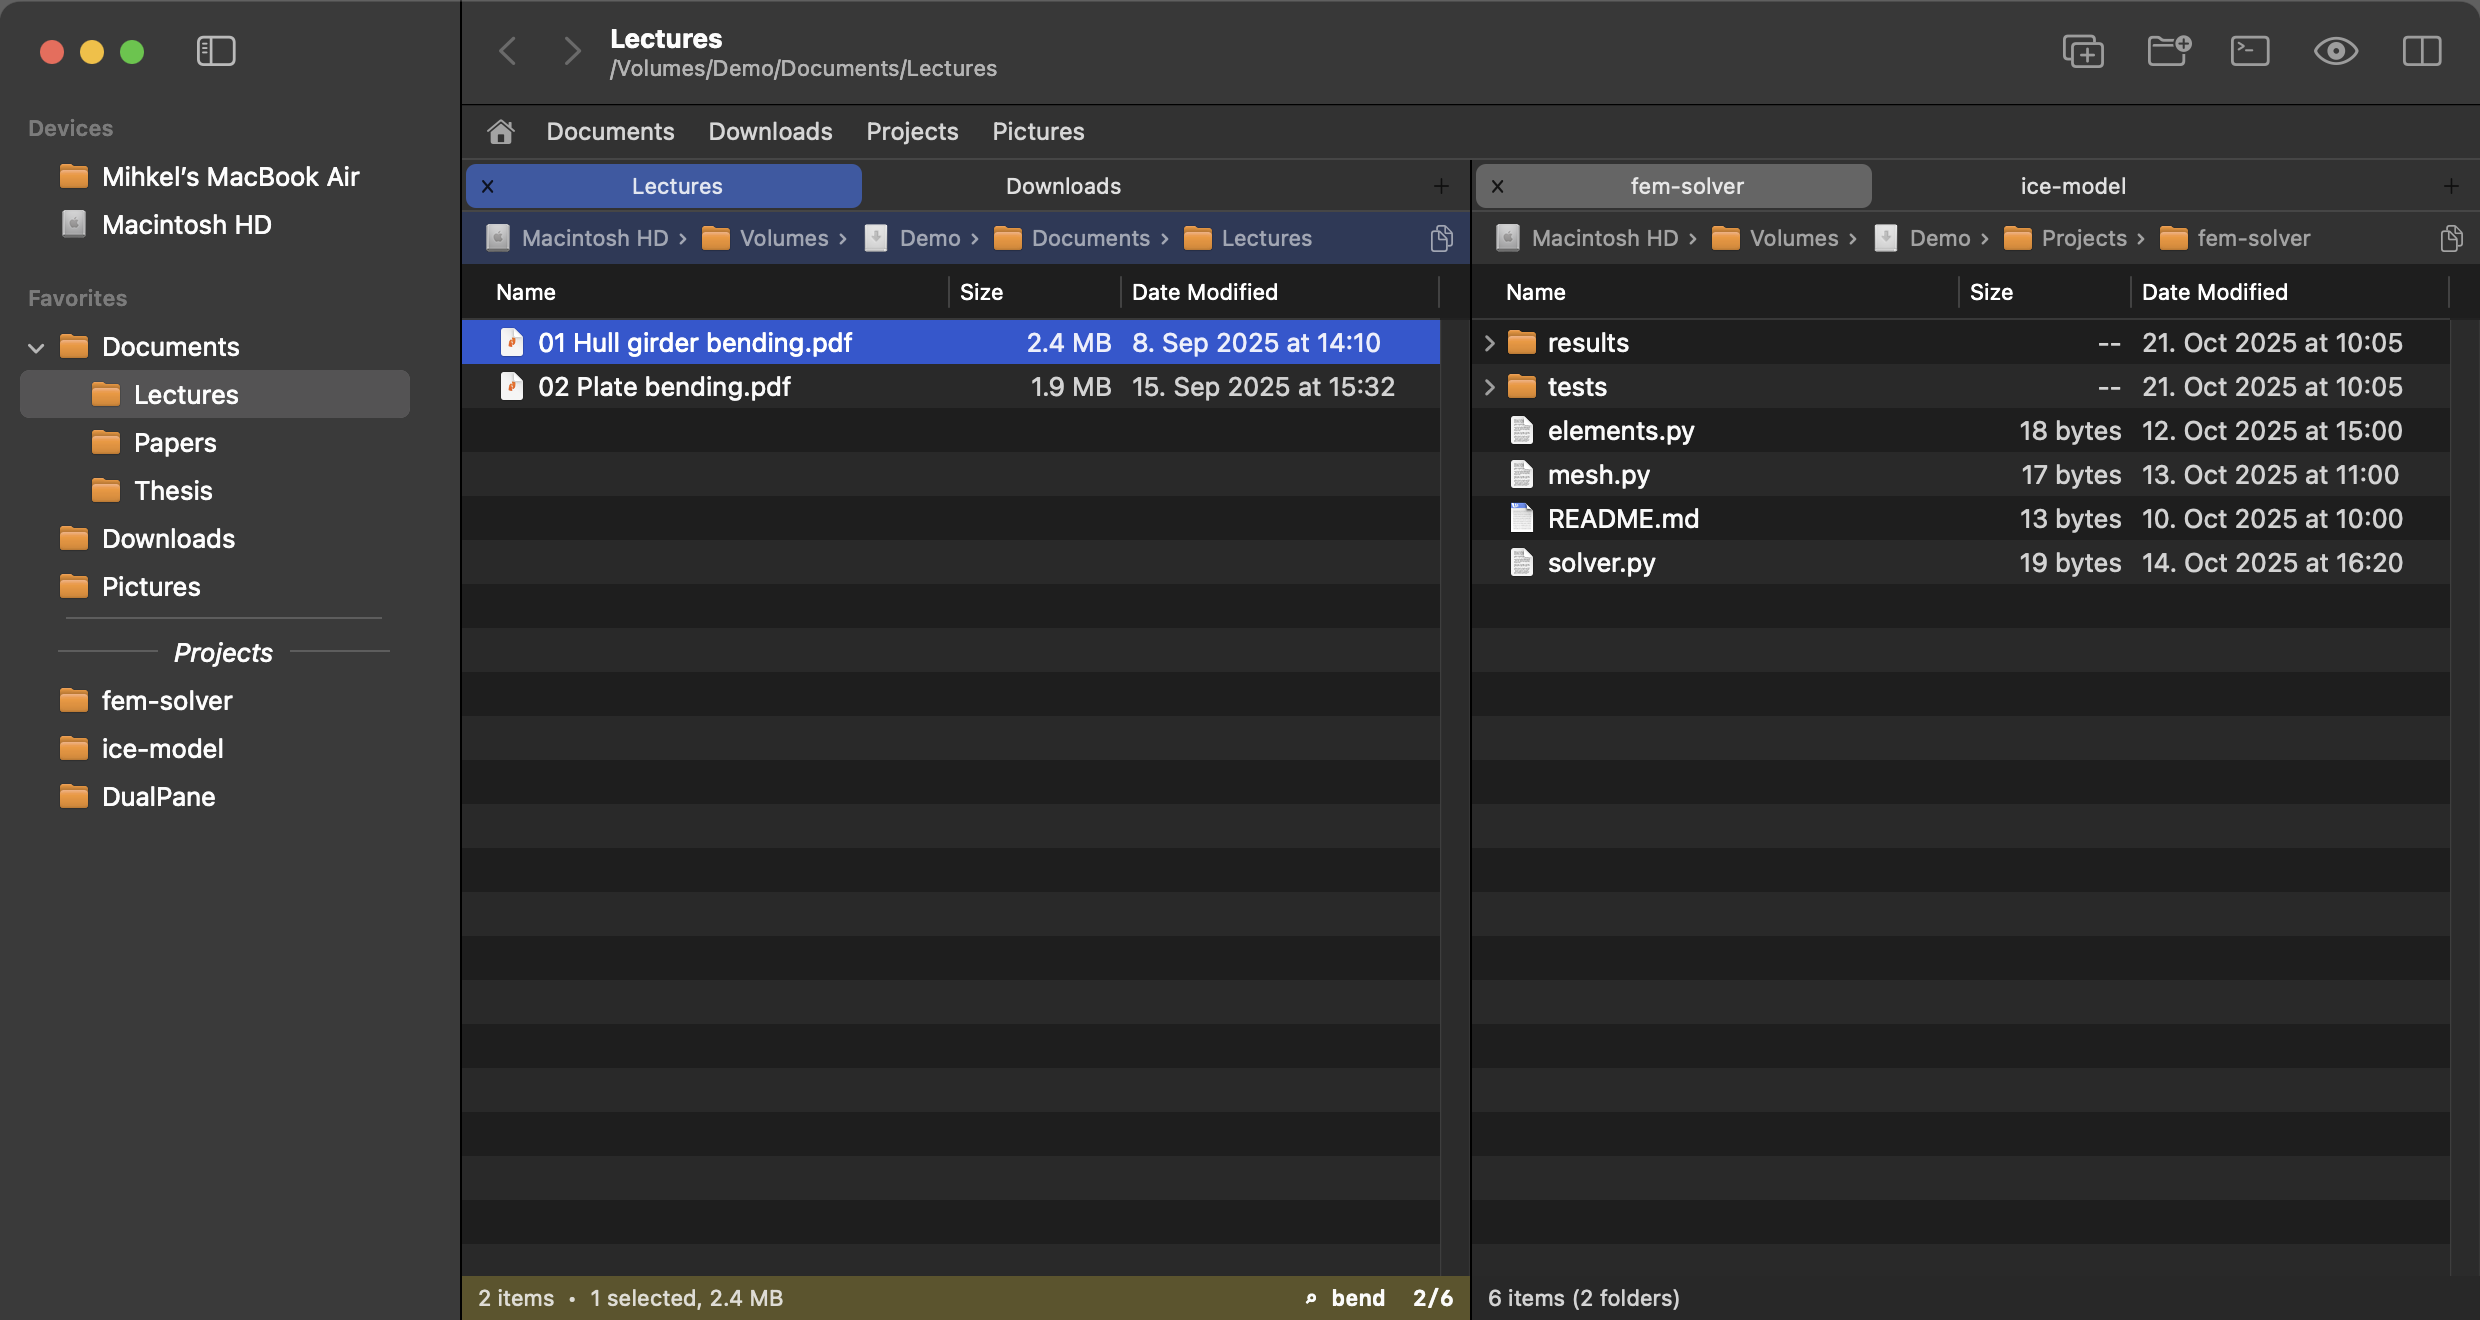
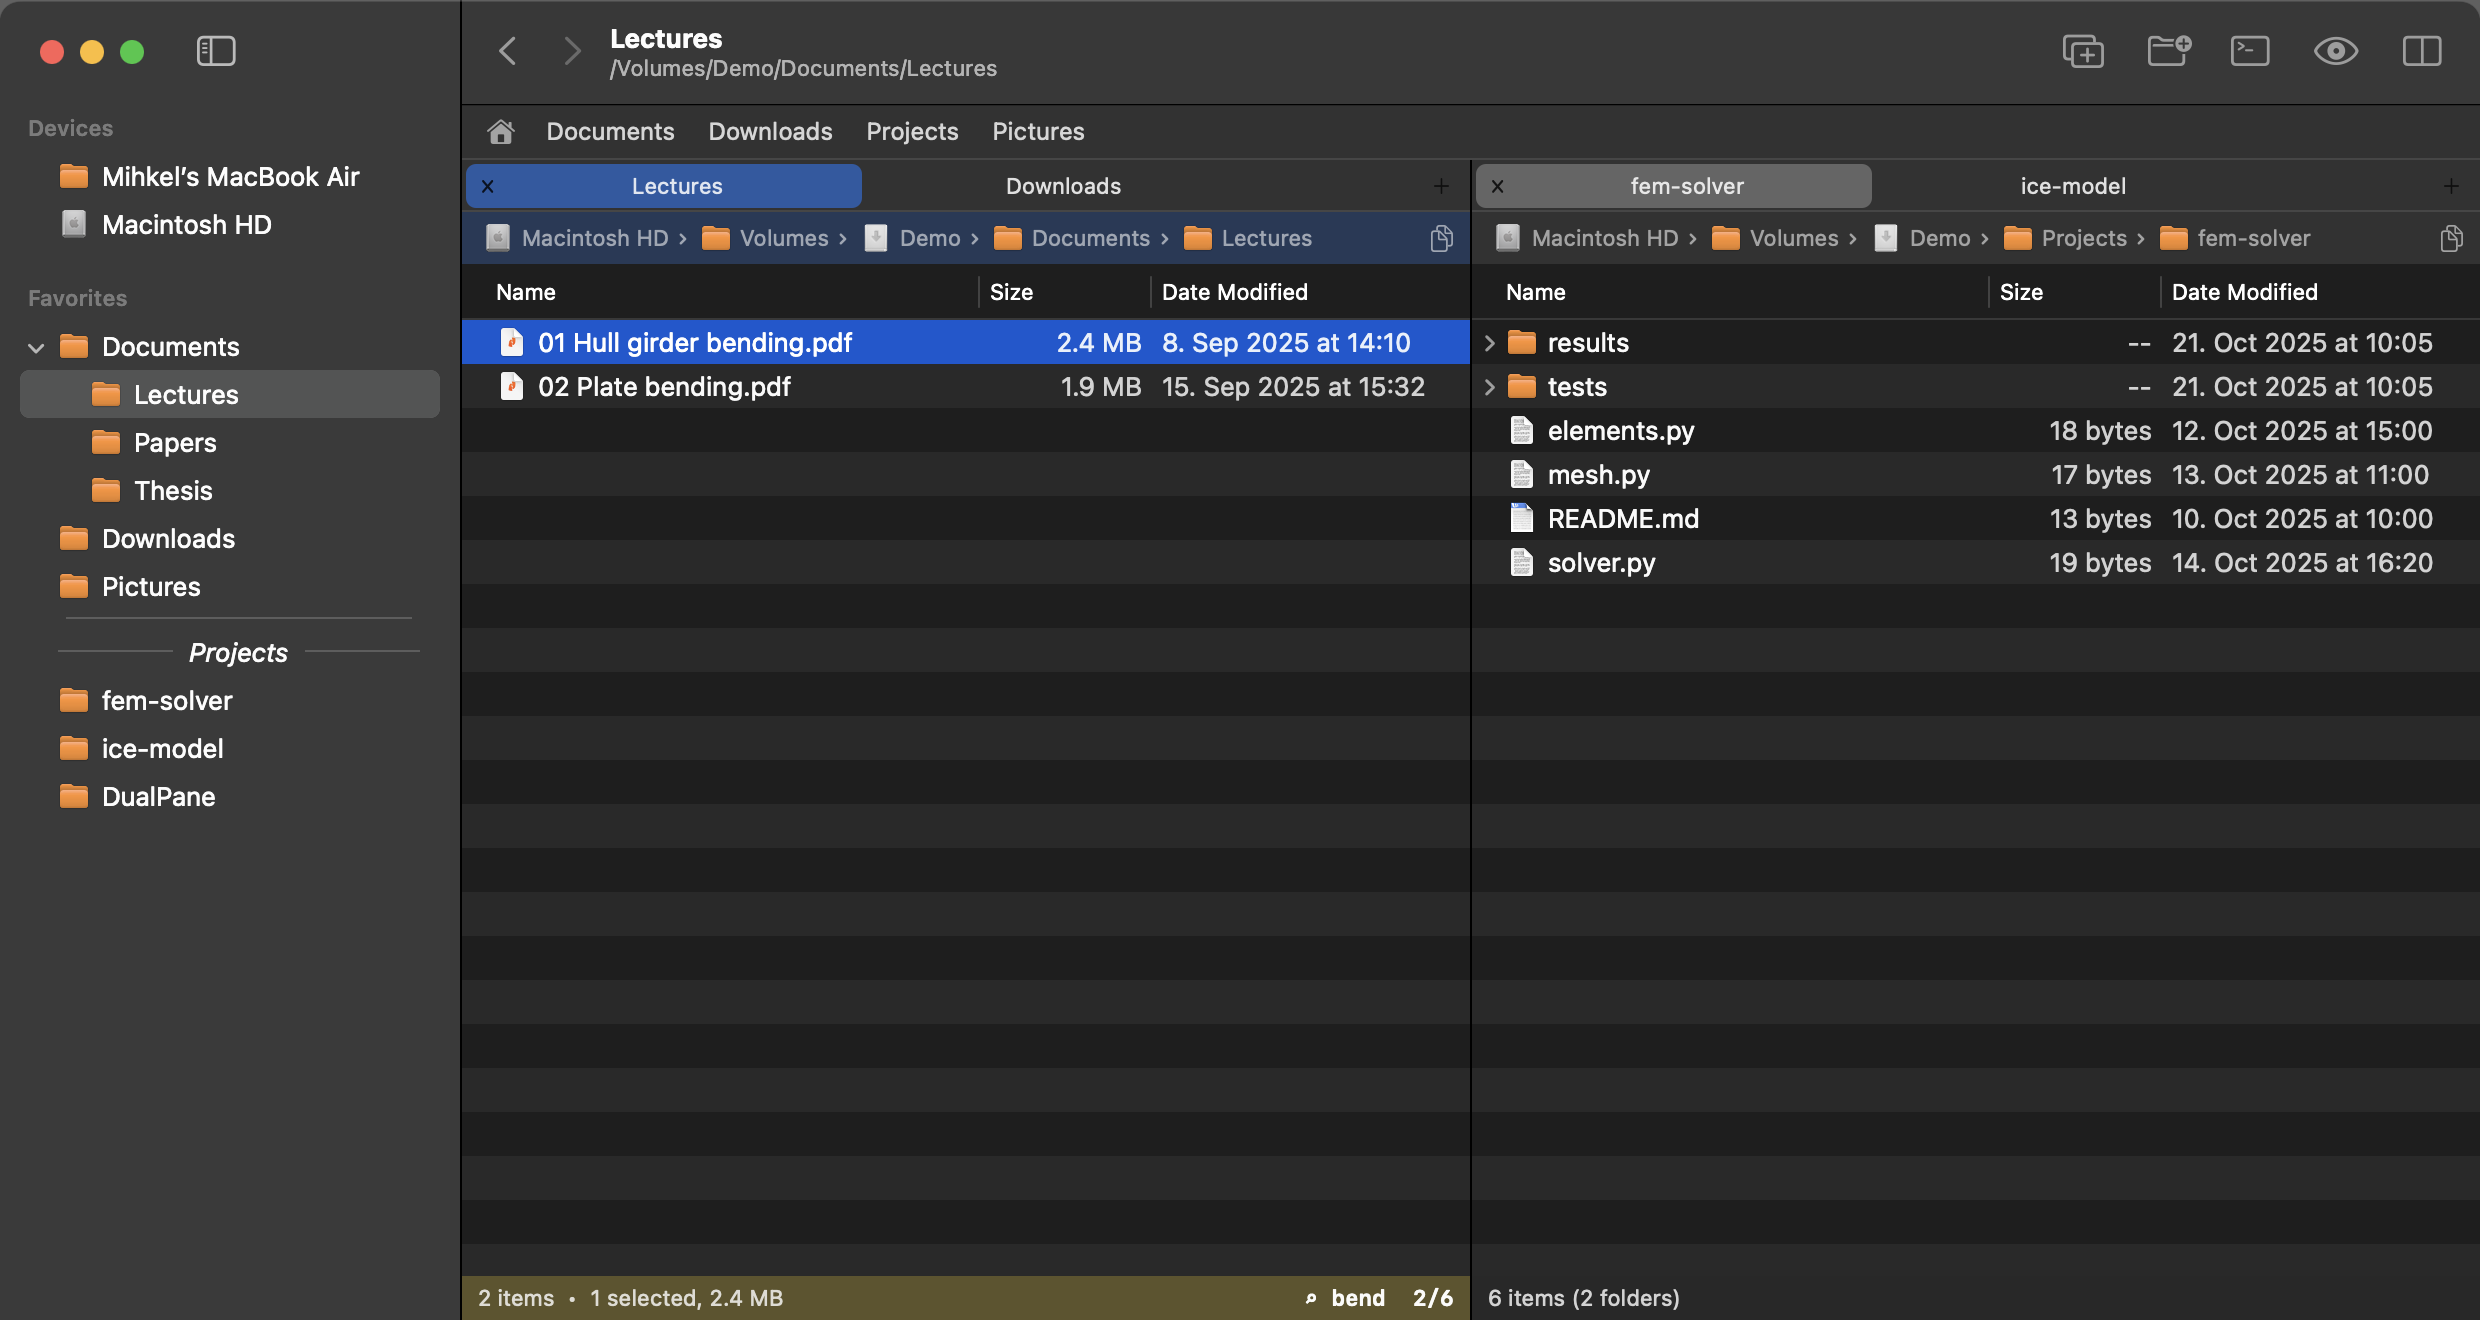
README: retake screenshots, add one of the ⌘B branch view

diff --git a/README.md b/README.md
@@ -44,6 +44,8 @@ favourites. The window title shows the active folder and its path.
 
 ![Type-to-filter: typing "bend" narrows the Lectures folder to the two matching PDFs](docs/filter.png)
 
+![⌘B branch view: typing "pdf" in Documents finds the PDFs in Lectures, Papers and Thesis in one list](docs/branch.png)
+
 ### Folder peek
 
 - Every folder row has a triangle in front of it. Click it (or press → with the row selected;
